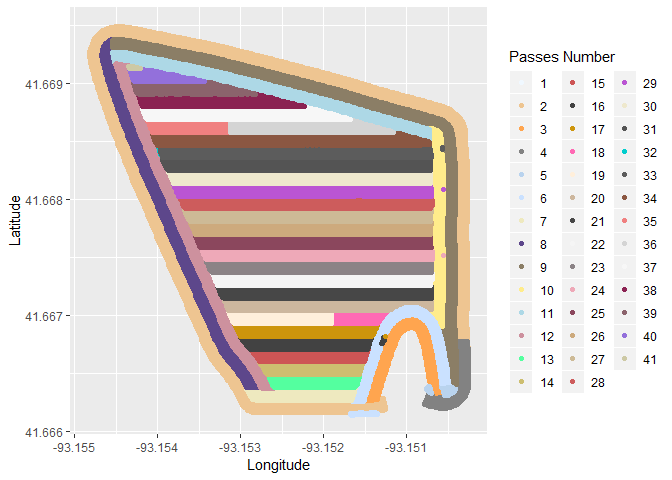
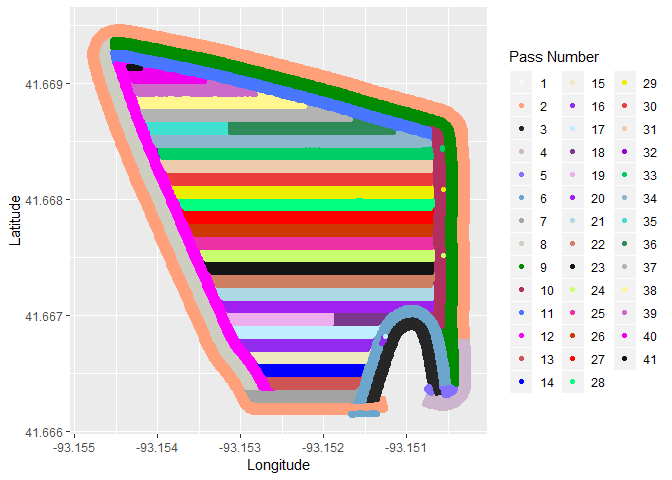
Code streamlined

diff --git a/Process_script.md b/Process_script.md
@@ -39,7 +39,7 @@ seeding_shapefile <- readOGR(dsn = files[4], layer = "Merriweather Farms-JT-01-C
 ```
 
     ## OGR data source with driver: ESRI Shapefile 
-    ## Source: "C:\Users\EricCoronel\AppData\Local\Temp\Rtmp8mrVJ1\doc\Merriweather Farms-JT-01-Corn.shp", layer: "Merriweather Farms-JT-01-Corn"
+    ## Source: "C:\Users\EricCoronel\AppData\Local\Temp\RtmpiMakMc\doc\Merriweather Farms-JT-01-Corn.shp", layer: "Merriweather Farms-JT-01-Corn"
     ## with 63761 features
     ## It has 10 fields
 
@@ -51,13 +51,15 @@ work_copy <- seeding_shapefile
 First processing
 ----------------
 
-This chunk does the following:
+This step does the following:
 
--   Creates a datetime variable.
--   Calculates time difference in seconds among consecutive records.
--   Creates an indicator variable that assigns 0 if time difference is between 0 to 6 seconds, and 1 to all others.
+-   Creates a datetime variable (later removed).
+-   Calculates time difference in seconds among consecutive records (later removed).
+-   Creates an indicator variable that assigns 0 if time difference is between 0 to 6 seconds, and 1 to all others (later removed).
 -   Calculates the cumulative sum of the indicator variable. Since data are arranged in ascending time order, the cumulative sum of the indicator variable gives us the total number of passes.
 -   Creates `pass_factor`, which is `pass_num` formatted as a factor for later visualization.
+-   Removes `datetime`, `diff1`, and `indicator` variables.
+-   Adds the coordinate variables `coords.x1` and `coords.x2` as part of the attribute table.
 
 ``` r
 work_copy@data <- work_copy@data %>%
@@ -65,7 +67,11 @@ work_copy@data <- work_copy@data %>%
          diff1 = c(NA, diff(datetime)),
          indicator = ifelse(diff1 %in% c(0:6), 0, 1),
          pass_num = cumsum(indicator),
-         pass_factor = as.factor(pass_num))
+         pass_factor = as.factor(pass_num)) %>% 
+  select(-datetime, -diff1, -indicator) %>% 
+  bind_cols(work_copy %>%
+              coordinates() %>%
+              data.frame)
 ```
 
 Calculating observations per pass
@@ -77,22 +83,6 @@ Another useful attribute for grouping or subsetting is knowing the number of obs
 work_copy@data <- work_copy@data %>%
   group_by(pass_num) %>%
   mutate(obs_per_pass = n())
-```
-
-Dropping some variables and adding coordinates
-----------------------------------------------
-
-This chunk:
-
--   Removes `datetime`, `diff1`, and `indicator` variables.
--   Adds the coordinate variables `coords.x1` and `coords.x2` as part of the attribute table.
-
-``` r
-work_copy@data <- work_copy@data %>%
-  select(-datetime, -diff1, -indicator) %>% 
-  bind_cols(work_copy %>%
-              coordinates() %>%
-              data.frame)
 ```
 
 Ploting the final version
@@ -118,7 +108,7 @@ ggplot(work_copy@data, aes(x = coords.x1, y = coords.x2, color = pass_factor)) +
   scale_color_manual(values = sample(colors(nlevels(work_copy$pass_factor)))) +
   labs(x = "Longitude",
        y = "Latitude",
-       color = "Passes Number")
+       color = "Pass Number")
 ```
 
 ![](Process_script_files/figure-markdown_github/plotting-2.png)
